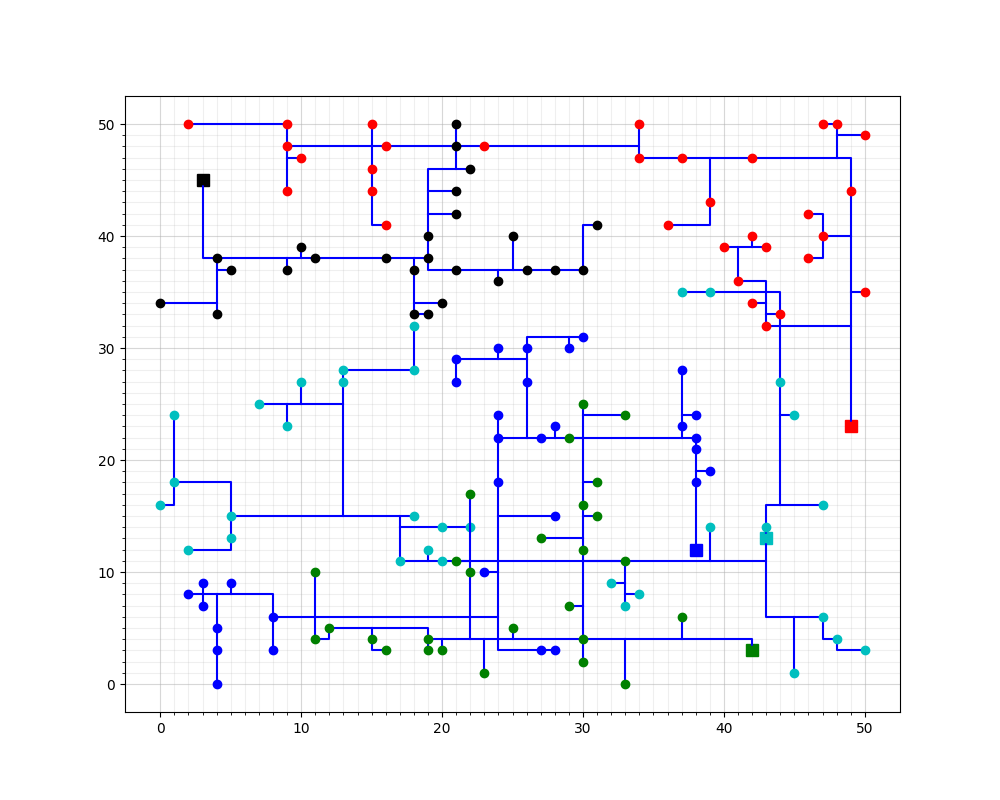
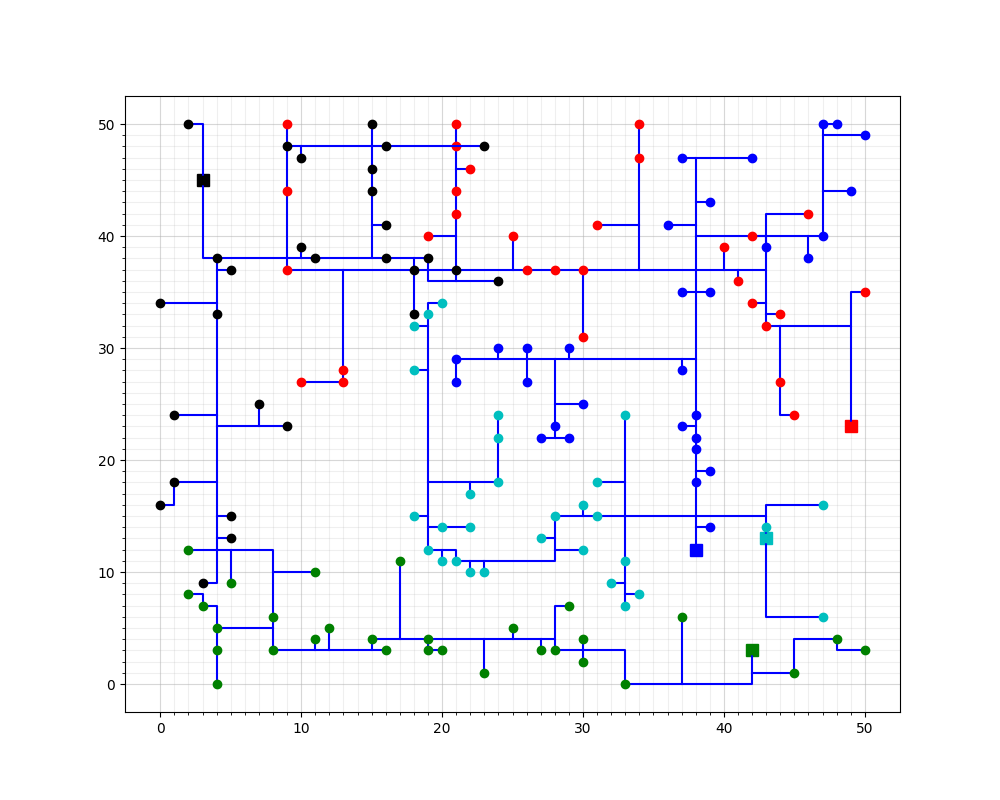
type hints toegevoegd, en comments aangepast

diff --git a/code/classes/model.py b/code/classes/model.py
@@ -43,7 +43,10 @@ class Model(object):
 
 
     def reduce_capacity(self, battery, house):
-        """ Reduce a batteries capacity with the given maxoutput of the house."""
+        """
+        Reduce a batteries capacity with the given maxoutput of the house, also checks if
+        a battery's capacity becomes negative.
+        """
         self.battery_capacity[battery] = self.battery_capacity[battery] - house.maxoutput
         if self.battery_capacity[battery] < 0:
             self.positive_capacities = False
@@ -69,11 +72,11 @@ class Model(object):
         return self.positive_capacities
 
 
-    def get_houses(self):
-        """
-        Return the list of houses available in the model.
-        """
-        return list(self.solutions.keys())
+    # def get_houses(self):
+    #     """
+    #     Return the list of houses available in the model.
+    #     """
+    #     return list(self.solutions.keys())
 
 
     def has_connection(self, house):
@@ -107,7 +110,9 @@ class Model(object):
             self.solution[house] = battery
 
     def set_connection_given_battery(self, house, battery):
-        """ sets the connection between house and battery """
+        """
+        Sets the connection between house and battery.
+        """
         position = house.get_closest_battery_or_cable(self.battery_positions[battery])
         self.reduce_capacity(battery, house)
         house_position = [house.x_position, house.y_position]
@@ -115,23 +120,26 @@ class Model(object):
         self.solution[house] = battery
 
     def set_connection_block_given_battery(self, house, position, list_batteries):
-            battery = None
-            for key in list_batteries:
-                for list in self.battery_cable[key]:
-                    for item in list:
-                        if item == position:
-                            battery = key
-                            break
+        """
+        Sets the connection between block and a given battery.
+        """
+        battery = None
+        for key in list_batteries:
+            for list in self.battery_cable[key]:
+                for item in list:
+                    if item == position:
+                        battery = key
+                        break
 
-            if self.check_capicity(house, battery) == False:
-                return False
+        if self.check_capacity(house, battery) == False:
+            return False
 
-            elif battery is not None:
-                self.reduce_capacity(battery, house)
-                house_position = [house.x_position, house.y_position]
-                self.add_route_from_house_to_battery(battery, house_position, position)
-                self.solution[house] = battery
-                return True
+        elif battery is not None:
+            self.reduce_capacity(battery, house)
+            house_position = [house.x_position, house.y_position]
+            self.add_route_from_house_to_battery(battery, house_position, position)
+            self.solution[house] = battery
+            return True
 
 
     def get_closest_position(self, house):
@@ -141,15 +149,10 @@ class Model(object):
             return position, list_batteries
 
     def get_distance(self, house, position):
-        # if self.get_available_batteries(house) != []:
-        #     list_grids, list_batteries = self.get_available_batteries(house)
-        #     position = house.get_closest_battery_or_cable(list_grids)
-        #     print(list_grids)
-        #     print(position)
-            distance = house.get_distance_to_battery_or_cable(position[0], position[1])
-            return distance
+        distance = house.get_distance_to_battery_or_cable(position[0], position[1])
+        return distance
 
-    def check_capicity(self, house, battery):
+    def check_capacity(self, house, battery):
         check = False
         if self.battery_capacity[battery] > house.maxoutput:
             check = True
@@ -194,7 +197,9 @@ class Model(object):
 
 
     def add_horizontal_steps(self, position, house_position, list, battery):
-        """ adding the horizontal steps towards the battery """
+        """
+        Adding the horizontal steps towards the battery.
+        """
         if house_position[0] < position[0]:
             steps = position[0] - house_position[0]
             for i in range(steps + 1):
@@ -211,7 +216,8 @@ class Model(object):
 
 
     def add_vertical_steps(self, position, house_position, list, battery):
-        """ adding the vertical steps towards the battery, from postition of latest cable """
+        """
+        Adding the vertical steps towards the battery, from postition of latest cable """
         if house_position[1] < position[1]:
             steps = position[1] - house_position[1]
             for i in range(steps):

diff --git a/code/visualisatie/scatterplot.py b/code/visualisatie/scatterplot.py
@@ -1,7 +1,13 @@
+
 import matplotlib.pyplot as plt
 import numpy as np
+from typing import Any, Tuple, Optional
+from code.classes.model import Model
 
-def creating_grid_district():
+def creating_grid_district() -> None:
+    """
+    Function that creates a 50 x 50 grid.
+    """
     fig = plt.figure(figsize=(10, 8))
     ax = fig.add_subplot(1, 1, 1)
 
@@ -14,28 +20,35 @@ def creating_grid_district():
     ax.set_yticks(major_ticks)
     ax.set_yticks(minor_ticks, minor=True)
 
-    # And a corresponding grid
     ax.grid(which='both')
-
-    # Or if you want different settings for the grids:
     ax.grid(which='minor', alpha=0.2)
     ax.grid(which='major', alpha=0.5)
 
-def plot_one_battery(x_battery, y_battery, color):
+def plot_one_battery(x_battery: int, y_battery: int, color: Any) -> None:
+    """
+    Function that plots one of the batteries on the grid with chosen color.
+    """
     plt.plot(x_battery, y_battery, color = color, marker = 's', markersize = 8)
 
-def plot_element(cables_coordinates, color, marker = "", linestyle = ""):
+def plot_element(coordinates_list: list[int], color: Any, marker = "", linestyle = "")   -> None:
+    """
+    Function that plots a coordinate on the grid.
+    """
     cb_x = []
     cb_y = []
 
-    for cable_point in cables_coordinates:
-        cb_x.append(cable_point[0])
-        cb_y.append(cable_point[1])
+    for coordinate in coordinates_list:
+        cb_x.append(coordinate[0])
+        cb_y.append(coordinate[1])
 
     plt.plot(cb_x, cb_y, color = color, marker = marker, linestyle = linestyle)
 
 
-def show_scatterplot(smallest_solution, multiple_plots = True):
+def show_scatterplot(smallest_solution: Model, multiple_plots = True) -> None:
+    """
+    Function that plots all the houses, batteries and all the cables.
+    """
+
     colors = ['b', 'c', 'g', 'r', 'k', 'm']
 
     creating_grid_district()
@@ -50,7 +63,7 @@ def show_scatterplot(smallest_solution, multiple_plots = True):
             houses_certain_battery.append(item[0])
             coordinates_cables= item
             # plotting the cables
-            plot_element(coordinates_cables, color = 'b', linestyle = '-')
+            plot_element(coordinates_cables, color = colors[i], linestyle = '-')
 
         # plotting the houses in color
         plot_element(houses_certain_battery, colors[i], marker = 'o')
@@ -59,5 +72,5 @@ def show_scatterplot(smallest_solution, multiple_plots = True):
         if multiple_plots and i < 5:
             creating_grid_district()
 
-    # plt.show()
-    # plt.close()
+    plt.show()
+    plt.close()

diff --git a/main.py b/main.py
@@ -27,9 +27,9 @@ if __name__ == "__main__":
     """ Housecounter algorithm"""
     # parameters used in the housecounter, if changed and algorithm is runned again than new plots will be saved
     runs = 5
-    
+
     # running the algorithm
-    housecounter_experiments.run_housecounter(district_test, runs)
+    # housecounter_experiments.run_housecounter(district_test, runs)
 
     """ Hillclimber algortihm """
     #parameters used in the hillclimber, if changed and algorithm is runned again than new plots will be saved
@@ -41,7 +41,7 @@ if __name__ == "__main__":
     # run the algorithm using the best of a number of random solutions as a starting point
     # hillclimber_experiment.multiple_runs(district_test, number_of_runs, houses_to_switch, iterations, random_runs)
     # run the algorithm using house_counter solution as a starting point
-    hillclimber_experiment.house_counter_hillclimb(district_test, number_of_runs,  houses_to_switch, iterations)
+    # hillclimber_experiment.house_counter_hillclimb(district_test, number_of_runs,  houses_to_switch, iterations)
 
     """ Simulated annealing """
     # # parameters used in simulated annealing algorithm, if changed and algorithm is runned again than new plots will be saved
@@ -59,9 +59,9 @@ if __name__ == "__main__":
     # simulatedannealing_experiment.random_simulated_an(district, random_runs, number_of_runs, houses_to_switch, iterations, start_temp, raise_temp)
 
     # code voor histogram
-    smallest_solution, costs_rg = random.run(15, district_test)
-    smallest_solution_2, costs_test = random.run(30, district_test)
-
-    best_model, costs_hi = hill_climber_experiment.hillclimb(district_test, 2, 15)
-    # print(costs)
-    histogram.multiple_histograms(costs_rg, "random + greedy", costs_hi, "hillclimber", costs_ar_3 = costs_test, name_3 ="Test")
+    # smallest_solution, costs_rg = random.run(15, district_test)
+    # smallest_solution_2, costs_test = random.run(30, district_test)
+    #
+    # best_model, costs_hi = hill_climber_experiment.hillclimb(district_test, 2, 15)
+    # # print(costs)
+    # histogram.multiple_histograms(costs_rg, "random + greedy", costs_hi, "hillclimber", costs_ar_3 = costs_test, name_3 ="Test")

diff --git a/code/classes/house.py b/code/classes/house.py
@@ -1,14 +1,17 @@
-
-
+from typing import Tuple, Optional
 
 class House(object):
-    def __init__(self, x_position, y_position, maxoutput):
+    def __init__(self, x_position: int, y_position: int, maxoutput: float) -> None:
+        """
+        Initializes a House object with a x and y coordinate (position on the grid).
+        It also initializes the maximal output of a house.
+        """
         self.x_position = x_position
         self.y_position = y_position
         self.maxoutput = maxoutput
 
 
-    def get_distance_to_battery_or_cable(self, x_position, y_position):
+    def get_distance_to_battery_or_cable(self, x_position: int, y_position: int) -> int:
         """
         Calculates manhatten distance between house position and given x and y.
         Returns this distance.
@@ -16,7 +19,7 @@ class House(object):
         distance = abs(self.x_position - x_position) + abs(self.y_position - y_position)
         return distance
 
-    def get_closest_battery_or_cable(self, list):
+    def get_closest_battery_or_cable(self, list: list[Tuple[int, int]]) -> Optional[Tuple[int, int]]:
         """
         Input is a list of all coordinates which are connected to batteries which have enough
         capacity to connect the house with.
@@ -31,6 +34,8 @@ class House(object):
         return position
 
 
-    def __repr__(self):
-        """ Let the object be printed properly when its called for """
+    def __repr__(self) -> str:
+        """
+        Let the object be printed properly when its called for.
+        """
         return f"Postition house: ({self.x_position},{self.y_position}), maxoutput: {self.maxoutput}"

diff --git a/code/classes/district.py b/code/classes/district.py
@@ -1,16 +1,15 @@
 from .battery import Battery
-
 from .house import House
 import csv
 
 class District(object):
-    def __init__(self, source_file, geo_json=None):
+    def __init__(self, source_file: str, geo_json = None) -> None:
         self.houses = self.load_houses(f"{source_file}/district-1_houses.csv")
         self.batteries = self.load_batteries(f"{source_file}/district-1_batteries.csv")
         self.district = int(source_file[-1])
 
 
-    def load_houses(self, houses_file):
+    def load_houses(self, houses_file: str) -> list[House]:
         """ load all the houses in District """
         houses = []
 
@@ -23,7 +22,7 @@ class District(object):
         return houses
 
 
-    def load_batteries(self, battery_file):
+    def load_batteries(self, battery_file:str) -> list[Battery]:
         """ load all the batteries in District """
         batteries = []
         with open(battery_file, 'r') as file:

diff --git a/code/classes/battery.py b/code/classes/battery.py
@@ -1,19 +1,19 @@
-
+from code.classes.house import House
 
 
 class Battery(object):
-    def __init__(self, x_position, y_position, capacity):
+    def __init__(self, x_position: int, y_position: int, capacity: float) -> None:
         self.x_position = x_position
         self.y_position = y_position
         self.capacity = capacity
-        # self.color = color
 
-    def has_capacity(self):
+
+    def has_capacity(self) -> float:
         return self.capacity
 
-    def reduce_capacity(self, house):
-        self.capacity = self.capacity - house.maxoutput
+    # def reduce_capacity(self, house: House) -> None:
+    #     self.capacity = self.capacity - house.maxoutput
 
-    def __repr__(self):
+    def __repr__(self) -> str:
         """ Let the object be printed properly when its called for """
         return f"Position battery: ({self.x_position}, {self.y_position}), available capacity: {self.capacity}"
